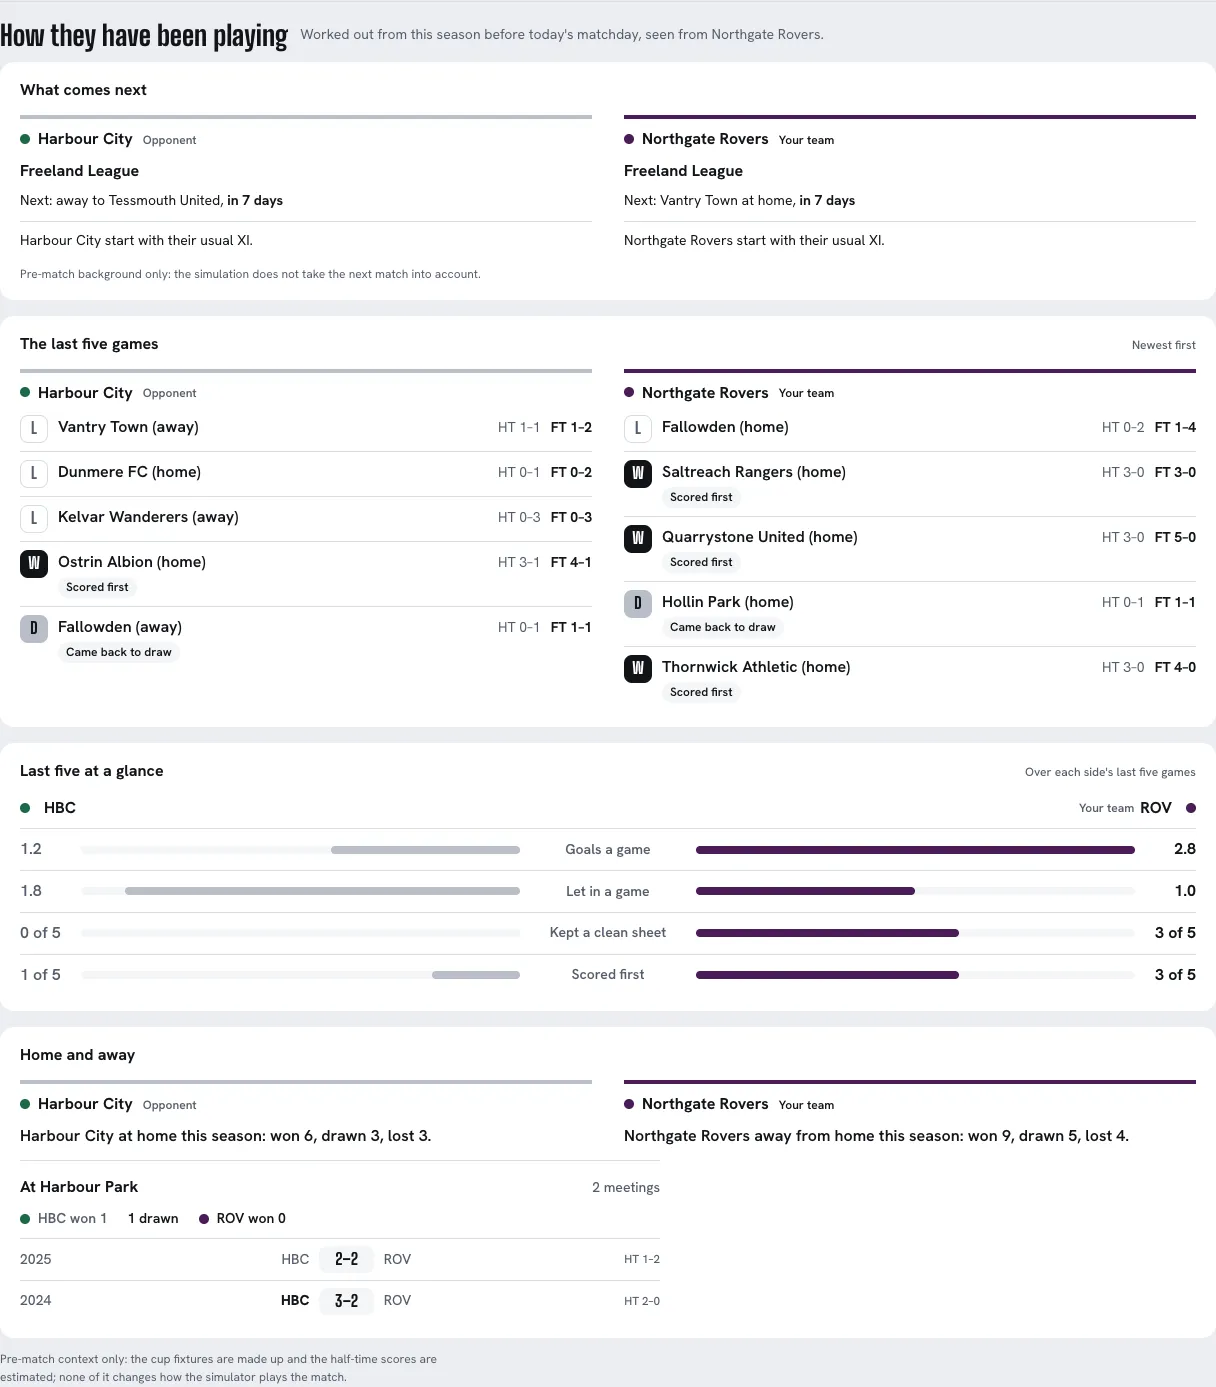
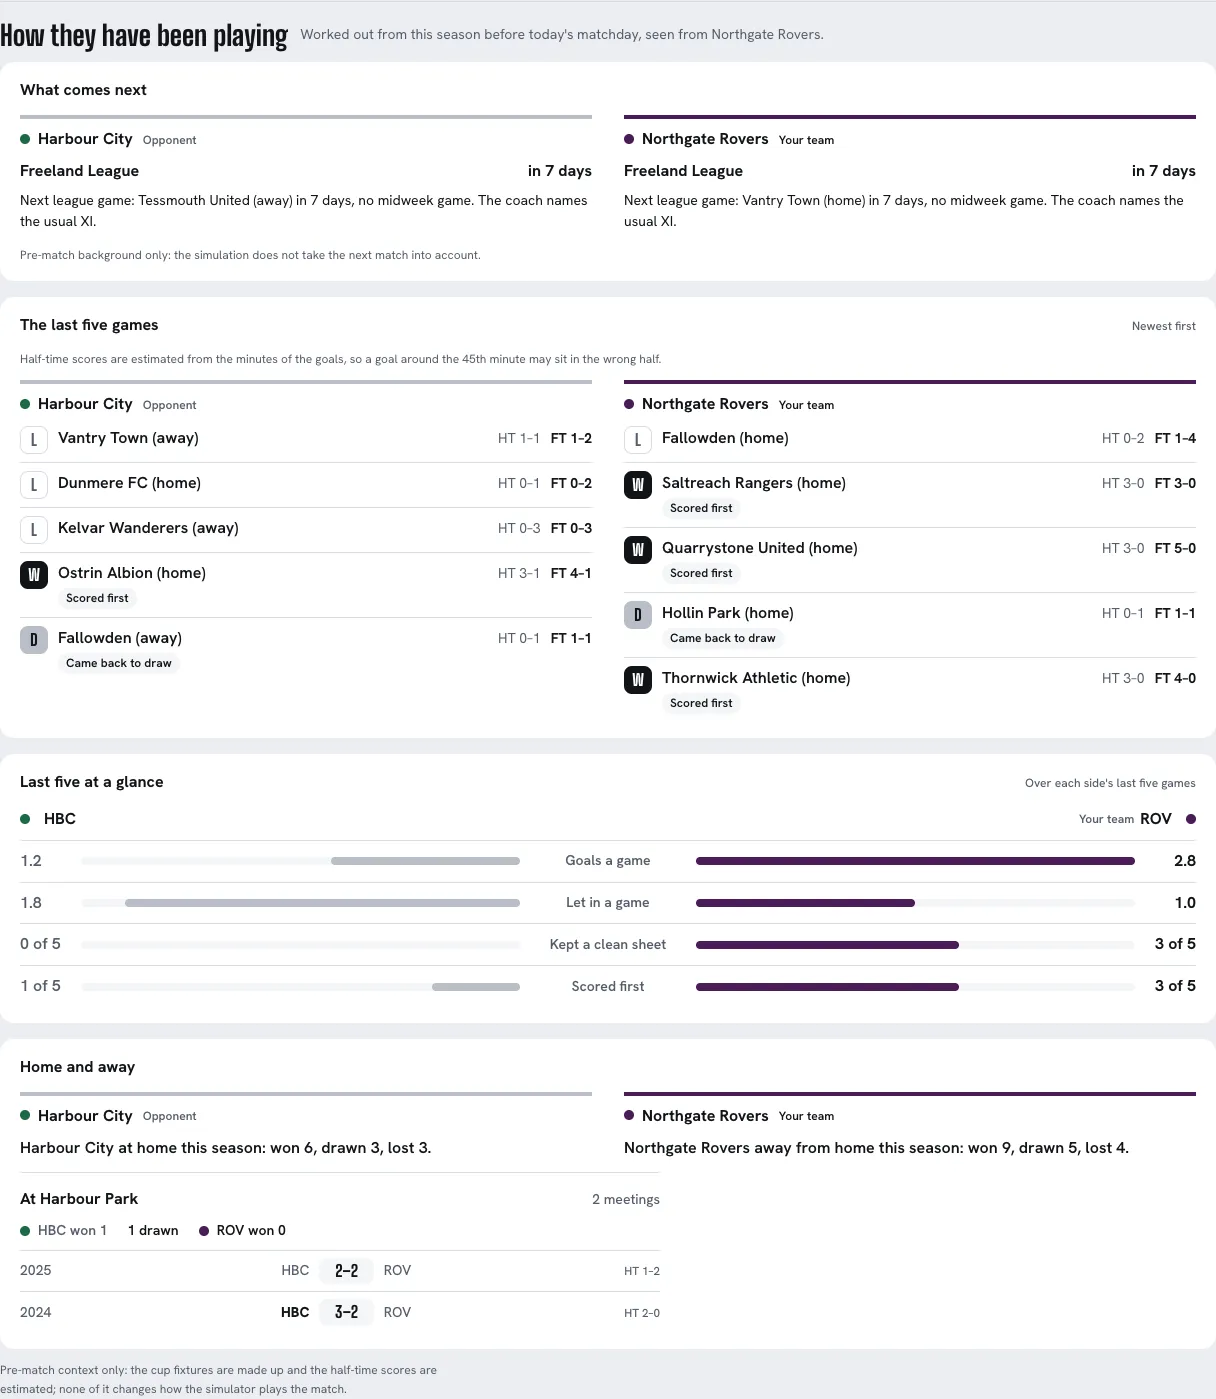
Ax67: rotation note from rotation_note_key, "usual XI" from usual_xi_named, half-time scores marked as estimates (#315)
- The next-match line is the API's rotation note, built from rotation_note_key and
  rotation_params in en, zh and es (league or cup, usual XI named or regulars rested);
  an unknown key falls back to the English rotation_note, tagged.
- With usual_xi_named there is no count of rested players; the rested names show only
  when regulars actually sit out. A cup tie carries a "Fictional fixture" chip.
- Half-time scores and the goals by period say they are estimated from goal minutes.
- "Rotation risk" reads "Reason to rotate": it says whether there is a reason, not what happened.

diff --git a/apps/web/src/components/PreMatchDeep.tsx b/apps/web/src/components/PreMatchDeep.tsx
@@ -207,6 +207,7 @@ function LastFive({ at, title, ...c }: Ctx & { at: PrematchReport["teams"]; titl
   if (!sides.length) return null;
   return (
     <Card title={title} note={c.t("pre.newestFirst")} className="pre-last5">
+      <p className="pre-hint muted">{c.t("pre.htEstimated")}</p>
       <div className="pre-cols">
         {sides.map((s) => (
           <div key={s} className={`pre-col ${s}${pickClass(s, c.mine)}`}>
@@ -328,9 +329,10 @@ function Periods({ side, stats, t, mine, short }: Ctx & { side: Side; stats: Pre
           </div>
         ))}
       </div>
-      <p className="pre-plegend muted" aria-hidden="true">
-        <span className="up">{t("pre.scored")}</span>
-        <span className="down">{t("pre.conceded")}</span>
+      <p className="pre-plegend muted">
+        <span className="up" aria-hidden="true">{t("pre.scored")}</span>
+        <span className="down" aria-hidden="true">{t("pre.conceded")}</span>
+        <span>{t("pre.periodsEstimated")}</span>
       </p>
       <table className="sr-only">
         <thead>
@@ -363,7 +365,7 @@ function NextUp({ at, title, about, ...c }: Ctx & { at: PrematchReport["teams"];
           <div key={s} className={`pre-col ${s}${pickClass(s, c.mine)}`}>
             <TeamHead side={s} {...c} />
             {at[s]!.next_fixture && <Fixture side={s} f={at[s]!.next_fixture!} league={at[s]!.next_league ?? null} {...c} />}
-            {at[s]!.usual_xi_today && <Rotation side={s} xi={at[s]!.usual_xi_today!} {...c} />}
+            {at[s]!.usual_xi_today && <Rotation side={s} xi={at[s]!.usual_xi_today!} noted={!!at[s]!.next_fixture} {...c} />}
           </div>
         ))}
       </div>
@@ -381,6 +383,32 @@ function Stage({ stage, t }: { stage: string; t: T }) {
   return isMessageKey(key) ? <>{t(key)}</> : <>{stage} <LangTag lang="en" /></>;
 }
 
+/**
+ * The API's rotation note (#327) in the page's language, from `rotation_note_key` and its params:
+ * where and when the next game is, and whether the coach names the usual XI or rests regulars.
+ * A key we do not have falls back to the API's English sentence, tagged.
+ */
+function RotationNote({ f, t }: { f: PrematchFixture; t: T }) {
+  const p = f.rotation_params ?? {};
+  const n = Number(p.benched ?? 0);
+  if (!f.rotation_note_key || !isMessageKey(f.rotation_note_key)) {
+    return f.rotation_note ? <p className="pre-line">{f.rotation_note} <LangTag lang="en" /></p> : null;
+  }
+  const home = (p.venue ?? f.venue) === "H";
+  const stage = String(p.stage ?? f.stage ?? "");
+  const stageKey = `pre.stage.${stage.toLowerCase().replace(/[^a-z0-9]+/g, "_")}`;
+  return (
+    <p className="pre-line">
+      {t(f.rotation_note_key, {
+        opponent: String(p.opponent ?? f.opponent), days: Number(p.days ?? f.days_until),
+        competition: String(p.competition ?? f.competition), stage: isMessageKey(stageKey) ? t(stageKey) : stage,
+        where: t(home ? "pre.where.home" : "pre.where.away"), to: t(home ? "pre.to.home" : "pre.to.away"),
+        rested: t(n === 1 ? "pre.restedOne" : "pre.restedMany", { n }),
+      })}
+    </p>
+  );
+}
+
 function Fixture({ f, league, t, fan }: Ctx & { side: Side; f: PrematchFixture; league: PrematchFixture | null }) {
   // A cup tie comes first: say when the next league game is too, for the analyst.
   const then = !fan && league && f.fictional && (league.opponent !== f.opponent || league.days_until !== f.days_until) ? league : null;
@@ -389,11 +417,10 @@ function Fixture({ f, league, t, fan }: Ctx & { side: Side; f: PrematchFixture; 
       <p className="pre-fx-what">
         <b>{f.competition}</b>
         {f.stage && <> <Stage stage={f.stage} t={t} /></>}
+        {f.fictional && <span className="pre-chip">{t("pre.fictional")}</span>}
+        <b className="num pre-fx-days">{t("pre.inDays", { n: f.days_until })}</b>
       </p>
-      <p className="pre-line">
-        {t(f.venue === "H" ? "pre.nextHome" : "pre.nextAway", { team: f.opponent })}{" "}
-        <b className="num">{t("pre.inDays", { n: f.days_until })}</b>
-      </p>
+      <RotationNote f={f} t={t} />
       {then && (
         <p className="pre-line muted">
           {t(then.venue === "H" ? "pre.thenLeagueHome" : "pre.thenLeagueAway", { team: then.opponent, n: then.days_until })}
@@ -411,18 +438,21 @@ function Fixture({ f, league, t, fan }: Ctx & { side: Side; f: PrematchFixture; 
   );
 }
 
-/** How many of the usual starters begin today, who sits out, who comes in; worked out from the season. */
-function Rotation({ side, xi, t, fan, playerName, name, names }: Ctx & { side: Side; xi: PrematchUsualXi }) {
+/**
+ * Who sits out and who comes in, worked out from the season. With the usual XI named
+ * (`usual_xi_named`) there is no count of zero, only "the usual XI"; the fixture's note says it too.
+ */
+function Rotation({ side, xi, t, fan, playerName, name, names, noted }: Ctx & { side: Side; xi: PrematchUsualXi; noted: boolean }) {
   const benched = xi.regulars_benched.map(playerName);
   const fresh = xi.newcomers.map(playerName);
+  const line = xi.usual_xi_named
+    ? !noted && t("pre.unchanged", { team: name(side) })
+    : benched.length > 0 && !noted && t("pre.rotated", { team: name(side), n: benched.length, starting: xi.regulars_starting });
+  if (!line && !benched.length && (fan || !xi.games)) return null;
   return (
     <div className="pre-rotation">
-      <p className="pre-line">
-        {benched.length
-          ? t("pre.rotated", { team: name(side), n: benched.length, starting: xi.regulars_starting })
-          : t("pre.unchanged", { team: name(side) })}
-      </p>
-      {benched.length > 0 && (
+      {line && <p className="pre-line">{line}</p>}
+      {!xi.usual_xi_named && benched.length > 0 && (
         <dl className="pre-facts pre-who-list">
           <div><dt>{t("pre.benched")}</dt><dd>{names(benched)}</dd></div>
           {fresh.length > 0 && <div><dt>{t("pre.inFor")}</dt><dd>{names(fresh)}</dd></div>}

diff --git a/apps/web/src/components/pre-match-deep.test.tsx b/apps/web/src/components/pre-match-deep.test.tsx
@@ -46,8 +46,13 @@ const cup = teams((t, side) => side === "away" ? t : {
   next_fixture: {
     ...t.next_fixture!, competition: "Freeland Cup", stage: "Quarter-final", matchday: null, opponent: "Eastmoor", opponent_id: "club-eas",
     days_until: 3, importance: "high", rotation_risk: "high", fictional: true,
+    rotation_note: "Freeland Cup quarter-final away to Eastmoor in 3 days (fictional schedule), and the coach rests 3 regular starters.",
+    rotation_note_key: "prematch.rotation.cup_benched",
+    rotation_params: { competition: "Freeland Cup", stage: "Quarter-final", opponent: "Eastmoor", venue: "A", days: 3, benched: 3 },
   },
-  usual_xi_today: { ...t.usual_xi_today, regulars_starting: 8, regulars_benched: ["h09", "h10", "h11"], newcomers: ["h12", "h13", "h14"] },
+  usual_xi_today: {
+    ...t.usual_xi_today, regulars_starting: 8, regulars_benched: ["h09", "h10", "h11"], newcomers: ["h12", "h13", "h14"], usual_xi_named: false,
+  },
 });
 
 describe("the form in detail", () => {
@@ -92,14 +97,18 @@ describe("the form in detail", () => {
     expect(out).toContain("Average rating 6.5 6.7");
     expect(out).toContain("HBC goals by period");
     expect(html(fx).match(/class="pre-pcol"/g)).toHaveLength(12);
+    // Half-time scores and periods come from goal minutes: the page says they are estimates.
+    expect(out).toContain("Half-time scores are estimated from the minutes of the goals");
+    expect(out).toContain("Periods estimated from goal minutes");
   });
 
   it("says what each side plays next, that the usual XI starts, and that the simulation ignores it", () => {
     const out = text(html(fx));
     expect(out).toContain("Freeland League");
-    expect(out).toContain("Next: away to Tessmouth United, in 7 days");
-    expect(out).toContain("Next: Vantry Town at home, in 7 days");
-    expect(out).toContain("Harbour City start with their usual XI.");
+    // The note comes from rotation_note_key; with the usual XI named there is no "0 rested".
+    expect(out).toContain("Next league game: Tessmouth United (away) in 7 days, no midweek game. The coach names the usual XI.");
+    expect(out).toContain("Next league game: Vantry Town (home) in 7 days");
+    expect(out).not.toMatch(/\b0 regular|On the bench/);
     expect(out).toContain("started at least 3 of the last 5 league games");
     expect(out).toContain("the simulation does not take the next match into account");
     // The API's one-line caveat (about_key) closes the section.
@@ -109,9 +118,9 @@ describe("the form in detail", () => {
   it("names a cup tie, the league game after it and the regulars rested for it", () => {
     const out = text(html(cup));
     expect(out).toContain("Freeland Cup quarter-final");
-    expect(out).toContain("Next: away to Eastmoor, in 3 days");
+    expect(out).toContain("Freeland Cup quarter-final away to Eastmoor in 3 days (fictional schedule), and the coach rests 3 regular starters.");
+    expect(out).toContain("Fictional fixture");
     expect(out).toContain("Then in the league: away to Tessmouth United, in 7 days.");
-    expect(out).toContain("3 regular starters begin on the bench; 8 of the usual XI start.");
     for (const id of ["h09", "h10", "h11", "h12"]) expect(out).toContain(view.playerName(id));
     // With the API's caveat there the page does not add its own made-up note; without it, it does.
     expect(out).not.toContain("made up for this demo season");
@@ -157,7 +166,7 @@ describe("the form in detail", () => {
     const out = text(html(cup));
     expect(out.indexOf("What comes next")).toBeLessThan(out.indexOf("The last five games"));
     expect(out).toContain("Harbour City at home this season: won 6, drawn 3, lost 3.");
-    expect(out).toContain("A big game soon, so they may rest players today.");
+    expect(out).toContain("A big game soon, a good reason to rest players today.");
     expect(out).toContain("Kept a clean sheet");
     for (const absent of ["PPG", "Red cards", "Average rating", "goals by period", "Rotation risk", "Then in the league"]) expect(out).not.toContain(absent);
   });
@@ -171,6 +180,9 @@ describe("the form in detail", () => {
     expect(out).toContain("Freeland Cup 1/4 决赛");
     expect(out).toContain("5 场 3 次");
     expect(out).toContain("半场比分是估算的");
+    expect(out).toContain("半场比分是按进球分钟估算的");
+    expect(out).toContain("客场对Eastmoor打Freeland Cup 1/4 决赛（虚构赛程），主教练让 3 名主力休息。");
+    expect(text(html(fx))).toContain("7 天后客场对Tessmouth United，中间没有周中比赛。主教练派出惯用首发。");
     expect(out).not.toContain(" · ");
   });
 });

diff --git a/apps/web/src/i18n/messages/es.ts b/apps/web/src/i18n/messages/es.ts
@@ -1012,16 +1012,14 @@ export const es: Messages = {
   "pre.minutes": "Minutos",
   "pre.nextUp": "Próximo partido y rotaciones",
   "pre.fan.nextUp": "Lo que viene",
-  "pre.nextHome": "Próximo: {team} en casa,",
-  "pre.nextAway": "Próximo: en campo de {team},",
   "pre.inDays": "dentro de {n} días",
   "pre.importance": "Importancia",
-  "pre.rotationRisk": "Riesgo de rotación",
+  "pre.rotationRisk": "Motivos para rotar",
   "pre.level.low": "Baja",
   "pre.level.medium": "Media",
   "pre.level.high": "Alta",
-  "pre.fan.risk.medium": "Puede que descansen uno o dos.",
-  "pre.fan.risk.high": "Tienen un partido grande pronto: hoy pueden dar descanso a titulares.",
+  "pre.fan.risk.medium": "Hay otro partido pronto: un motivo para dar descanso a uno o dos.",
+  "pre.fan.risk.high": "Un partido grande pronto: un buen motivo para dar descanso a titulares hoy.",
   "pre.rotated": "{n} titulares habituales empiezan en el banquillo; salen {starting} del once de siempre.",
   "pre.unchanged": "{team} sale con su once de siempre.",
   "pre.benched": "En el banquillo",
@@ -1038,4 +1036,18 @@ export const es: Messages = {
   "pre.thenLeagueAway": "Después, en liga: en campo de {team}, dentro de {n} días.",
   "pre.usualFrom": "El once de siempre: quienes fueron titulares en al menos 3 de las últimas {n} jornadas de liga.",
   "pre.tag.levelled": "Empató tras ir perdiendo",
+  "prematch.rotation.league_all_start": "Próxima jornada de liga: {opponent} ({where}) dentro de {days} días, sin partido entre semana. El entrenador pone el once de siempre.",
+  "prematch.rotation.league_benched": "Próxima jornada de liga: {opponent} ({where}) dentro de {days} días, sin partido entre semana. El entrenador da descanso a {rested}.",
+  "prematch.rotation.cup_all_start": "{competition}, {stage}: {to} {opponent} dentro de {days} días (calendario inventado), pero el entrenador pone el once de siempre.",
+  "prematch.rotation.cup_benched": "{competition}, {stage}: {to} {opponent} dentro de {days} días (calendario inventado), y el entrenador da descanso a {rested}.",
+  "pre.where.home": "en casa",
+  "pre.where.away": "fuera",
+  "pre.to.home": "en casa contra",
+  "pre.to.away": "en campo de",
+  "pre.restedOne": "{n} titular habitual",
+  "pre.restedMany": "{n} titulares habituales",
+  "pre.fictional": "Partido inventado",
+  "pre.htEstimated": "El resultado al descanso se estima por los minutos de los goles: un gol cerca del minuto 45 puede caer en la parte equivocada.",
+  "pre.periodsEstimated": "Tramos estimados por los minutos de los goles",
+  "pre.stage.third_round": "tercera ronda",
 };

diff --git a/apps/web/src/i18n/messages/zh.ts b/apps/web/src/i18n/messages/zh.ts
@@ -1010,16 +1010,14 @@ export const zh: Messages = {
   "pre.minutes": "分钟",
   "pre.nextUp": "下一场和轮换",
   "pre.fan.nextUp": "接下来打谁",
-  "pre.nextHome": "下一场：主场对{team}，",
-  "pre.nextAway": "下一场：客场对{team}，",
   "pre.inDays": "{n} 天后",
   "pre.importance": "重要程度",
-  "pre.rotationRisk": "轮换可能",
+  "pre.rotationRisk": "轮换的理由",
   "pre.level.low": "低",
   "pre.level.medium": "中",
   "pre.level.high": "高",
-  "pre.fan.risk.medium": "可能让一两个人休息。",
-  "pre.fan.risk.high": "很快有一场大战，今天可能让主力休息。",
+  "pre.fan.risk.medium": "这场之后很快又有比赛，有理由让一两个人休息。",
+  "pre.fan.risk.high": "很快有一场大战，今天很有理由让主力休息。",
   "pre.rotated": "{n} 名主力今天坐板凳，惯用首发里有 {starting} 人首发。",
   "pre.unchanged": "{team}派出惯用首发。",
   "pre.benched": "坐板凳的主力",
@@ -1036,4 +1034,18 @@ export const zh: Messages = {
   "pre.thenLeagueAway": "之后的联赛：客场对{team}，{n} 天后。",
   "pre.usualFrom": "惯用首发：最近 {n} 场联赛里至少首发 3 场的球员。",
   "pre.tag.levelled": "落后扳平",
+  "prematch.rotation.league_all_start": "下一场联赛：{days} 天后{where}对{opponent}，中间没有周中比赛。主教练派出惯用首发。",
+  "prematch.rotation.league_benched": "下一场联赛：{days} 天后{where}对{opponent}，中间没有周中比赛。主教练让{rested}休息。",
+  "prematch.rotation.cup_all_start": "{days} 天后{to}{opponent}打{competition} {stage}（虚构赛程），但主教练仍派出惯用首发。",
+  "prematch.rotation.cup_benched": "{days} 天后{to}{opponent}打{competition} {stage}（虚构赛程），主教练让{rested}休息。",
+  "pre.where.home": "主场",
+  "pre.where.away": "客场",
+  "pre.to.home": "主场对",
+  "pre.to.away": "客场对",
+  "pre.restedOne": " {n} 名主力",
+  "pre.restedMany": " {n} 名主力",
+  "pre.fictional": "虚构赛程",
+  "pre.htEstimated": "半场比分是按进球分钟估算的，45 分钟前后的进球可能算错半场。",
+  "pre.periodsEstimated": "各时段按进球分钟估算",
+  "pre.stage.third_round": "第三轮",
 };

diff --git a/apps/web/src/i18n/messages/en.ts b/apps/web/src/i18n/messages/en.ts
@@ -1011,16 +1011,14 @@ export const en = {
   "pre.minutes": "Minutes",
   "pre.nextUp": "Next match and rotation",
   "pre.fan.nextUp": "What comes next",
-  "pre.nextHome": "Next: {team} at home,",
-  "pre.nextAway": "Next: away to {team},",
   "pre.inDays": "in {n} days",
   "pre.importance": "How big it is",
-  "pre.rotationRisk": "Rotation risk",
+  "pre.rotationRisk": "Reason to rotate",
   "pre.level.low": "Low",
   "pre.level.medium": "Medium",
   "pre.level.high": "High",
-  "pre.fan.risk.medium": "They might rest a player or two.",
-  "pre.fan.risk.high": "A big game soon, so they may rest players today.",
+  "pre.fan.risk.medium": "A game soon after this one, a reason to rest a player or two.",
+  "pre.fan.risk.high": "A big game soon, a good reason to rest players today.",
   "pre.rotated": "{n} regular starters begin on the bench; {starting} of the usual XI start.",
   "pre.unchanged": "{team} start with their usual XI.",
   "pre.benched": "On the bench",
@@ -1037,4 +1035,18 @@ export const en = {
   "pre.thenLeagueAway": "Then in the league: away to {team}, in {n} days.",
   "pre.usualFrom": "The usual XI: whoever started at least 3 of the last {n} league games.",
   "pre.tag.levelled": "Came back to draw",
+  "prematch.rotation.league_all_start": "Next league game: {opponent} ({where}) in {days} days, no midweek game. The coach names the usual XI.",
+  "prematch.rotation.league_benched": "Next league game: {opponent} ({where}) in {days} days, no midweek game. The coach rests {rested}.",
+  "prematch.rotation.cup_all_start": "{competition} {stage} {to} {opponent} in {days} days (fictional schedule), but the coach names the usual XI.",
+  "prematch.rotation.cup_benched": "{competition} {stage} {to} {opponent} in {days} days (fictional schedule), and the coach rests {rested}.",
+  "pre.where.home": "home",
+  "pre.where.away": "away",
+  "pre.to.home": "at home to",
+  "pre.to.away": "away to",
+  "pre.restedOne": "{n} regular starter",
+  "pre.restedMany": "{n} regular starters",
+  "pre.fictional": "Fictional fixture",
+  "pre.htEstimated": "Half-time scores are estimated from the minutes of the goals, so a goal around the 45th minute may sit in the wrong half.",
+  "pre.periodsEstimated": "Periods estimated from goal minutes",
+  "pre.stage.third_round": "third round",
 };

diff --git a/apps/web/src/styles/prematch.css b/apps/web/src/styles/prematch.css
@@ -257,14 +257,15 @@
 .pre-pcol .down i { border-radius: 0 0 3px 3px; background: var(--pv-draw); }
 .pre-pcol b { font-size: var(--pv-fs-xs); font-weight: 700; line-height: 18px; font-variant-numeric: tabular-nums; }
 .pre-pcol small { font-size: var(--pv-fs-xs); color: var(--pv-ink-2); font-variant-numeric: tabular-nums; white-space: nowrap; padding-top: 4px; }
-.pre-plegend { display: flex; gap: 16px; font-size: var(--pv-fs-xs); }
-.pre-plegend span::before { content: ""; display: inline-block; width: 10px; height: 10px; margin-right: 6px; border-radius: 2px; vertical-align: -1px; }
+.pre-plegend { display: flex; flex-wrap: wrap; gap: 4px 16px; font-size: var(--pv-fs-xs); }
+.pre-plegend :is(.up, .down)::before { content: ""; display: inline-block; width: 10px; height: 10px; margin-right: 6px; border-radius: 2px; vertical-align: -1px; }
 .pre-plegend .up::before { background: var(--tc); }
 .pre-plegend .down::before { background: var(--pv-draw); }
 
 /* What comes next and who rests. */
 .pre-fixture, .pre-rotation { display: grid; gap: 6px; }
-.pre-fx-what { font-size: var(--pv-fs-md); }
+.pre-fx-what { display: flex; flex-wrap: wrap; align-items: baseline; gap: 4px 8px; font-size: var(--pv-fs-md); }
+.pre-fx-days { margin-left: auto; }
 .pre-rotation { padding-top: 8px; border-top: 1px solid var(--pv-hair); }
 .pre-who-list { flex-direction: column; gap: 6px; }
 .pre-who-list dd { font-weight: 600; }
